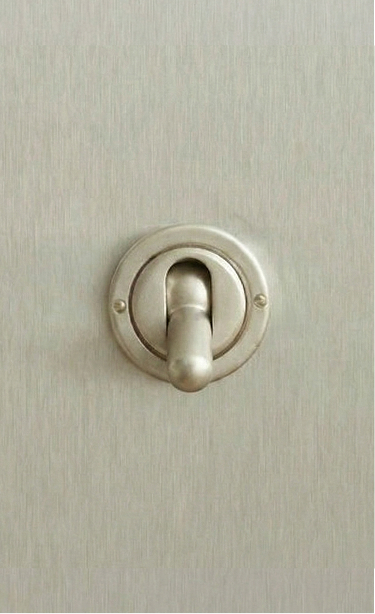
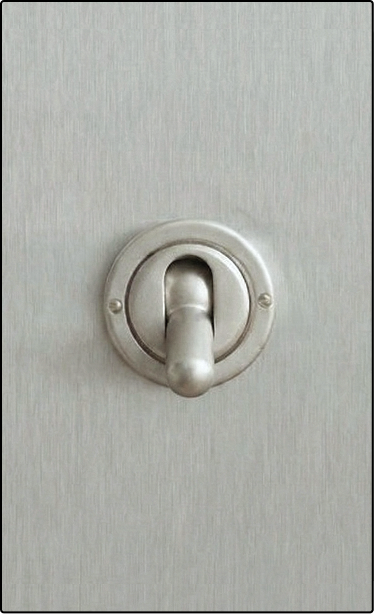
Full-screen layout with hi-res images, vertical slider, repositioned elements

Changed region(s): [[0.0, 0.0, 1.0, 1.0], [0.2353, 0.3404, 0.7647, 0.6498], [0.8529, 0.7427, 0.8824, 0.7736]]

diff --git a/app/page.tsx b/app/page.tsx
@@ -4,14 +4,14 @@ import Image from "next/image";
 import { useState, useRef, useCallback, useEffect } from "react";
 
 const images = [
-  { src: "/images/DOWN_0.png", alt: "Hanger Lamp - Down 0" },
-  { src: "/images/DOWN_-1.png", alt: "Hanger Lamp - Down -1" },
-  { src: "/images/UP_0.png", alt: "Hanger Lamp - UP 0" },
-  { src: "/images/UP_01.png", alt: "Hanger Lamp - UP 1" },
-  { src: "/images/UP_02.png", alt: "Hanger Lamp - UP 2" },
-  { src: "/images/UP_03.png", alt: "Hanger Lamp - UP 3" },
-  { src: "/images/UP_04.png", alt: "Hanger Lamp - UP 4" },
-  { src: "/images/UP_05.png", alt: "Hanger Lamp - UP 5" },
+  { src: "/images/images_hires/_0.png", alt: "Hanger Lamp - 0" },
+  { src: "/images/images_hires/_1.png", alt: "Hanger Lamp - 1" },
+  { src: "/images/images_hires/_2.png", alt: "Hanger Lamp - 2" },
+  { src: "/images/images_hires/_3.png", alt: "Hanger Lamp - 3" },
+  { src: "/images/images_hires/_4.png", alt: "Hanger Lamp - 4" },
+  { src: "/images/images_hires/_5.png", alt: "Hanger Lamp - 5" },
+  { src: "/images/images_hires/_6.png", alt: "Hanger Lamp - 6" },
+  { src: "/images/images_hires/_7.png", alt: "Hanger Lamp - 7" },
 ];
 
 export default function Home() {
@@ -22,15 +22,14 @@ export default function Home() {
   const [showSliderHint, setShowSliderHint] = useState(false);
   const trackRef = useRef<HTMLDivElement>(null);
 
-  // Intro animation: step through each image with 0.45s per image (10% faster)
+  // Intro animation: step through each image with 0.45s per image
   useEffect(() => {
     if (!isAnimating) return;
 
-    const timePerImage = 450; // 0.45 seconds per image (10% faster)
+    const timePerImage = 450;
     const startIndex = images.length - 1;
     let currentIndex = startIndex;
 
-    // Delay before starting animation so users can see the initial state
     const initialTimeout = setTimeout(() => {
       const interval = setInterval(() => {
         currentIndex--;
@@ -40,9 +39,7 @@ export default function Home() {
         if (currentIndex <= 0) {
           clearInterval(interval);
           setIsAnimating(false);
-          // Show the slider hint arrow after animation ends
           setShowSliderHint(true);
-          // Hide the hint after 3 seconds
           setTimeout(() => setShowSliderHint(false), 3000);
         }
       }, timePerImage);
@@ -51,29 +48,30 @@ export default function Home() {
     return () => clearTimeout(initialTimeout);
   }, [isAnimating]);
 
-  const handleDrag = useCallback((clientX: number) => {
+  // Vertical slider drag handler
+  const handleDrag = useCallback((clientY: number) => {
     if (!trackRef.current) return;
     
     const track = trackRef.current;
     const rect = track.getBoundingClientRect();
-    const x = clientX - rect.left;
-    const percentage = Math.max(0, Math.min(1, x / rect.width));
+    const y = clientY - rect.top;
+    const percentage = Math.max(0, Math.min(1, y / rect.height));
     const imageIndex = Math.round(percentage * (images.length - 1));
     setActiveImage(imageIndex);
   }, []);
 
   const handleMouseDown = (e: React.MouseEvent) => {
     if (isOff || isAnimating) return;
-    setShowSliderHint(false); // Hide hint when user interacts
+    setShowSliderHint(false);
     setIsDragging(true);
-    handleDrag(e.clientX);
+    handleDrag(e.clientY);
   };
 
   const handleTouchStart = (e: React.TouchEvent) => {
     if (isOff || isAnimating) return;
-    setShowSliderHint(false); // Hide hint when user interacts
+    setShowSliderHint(false);
     setIsDragging(true);
-    handleDrag(e.touches[0].clientX);
+    handleDrag(e.touches[0].clientY);
   };
 
   const toggleLight = () => {
@@ -83,13 +81,13 @@ export default function Home() {
   useEffect(() => {
     const handleMouseMove = (e: MouseEvent) => {
       if (isDragging) {
-        handleDrag(e.clientX);
+        handleDrag(e.clientY);
       }
     };
 
     const handleTouchMove = (e: TouchEvent) => {
       if (isDragging) {
-        handleDrag(e.touches[0].clientX);
+        handleDrag(e.touches[0].clientY);
       }
     };
 
@@ -113,29 +111,33 @@ export default function Home() {
   }, [isDragging, handleDrag]);
 
   const sliderPosition = (activeImage / (images.length - 1)) * 100;
-  const currentImage = isOff ? "/images/DOWN_OFF.png" : images[activeImage].src;
+  const currentImage = isOff ? "/images/images_hires/_dark_on.png" : images[activeImage].src;
   const currentAlt = isOff ? "Hanger Lamp - Off" : images[activeImage].alt;
   const switchImage = isOff ? "/images/switch-down.png" : "/images/switch-up.png";
 
   return (
-    <div 
-      className={`min-h-screen font-sans select-none transition-colors duration-500 ${
-        isOff ? "bg-[#7F7D75] text-[#1a1a1a]" : "bg-[#d9d5cd] text-[#1a1a1a]"
-      }`}
-    >
-      {/* Navigation - Hidden on mobile, visible on desktop */}
-      <nav 
-        className={`fixed top-0 left-0 right-0 z-50 hidden md:flex items-center gap-16 px-12 py-6 transition-colors duration-500 ${
-          isOff ? "bg-[#7F7D75]" : "bg-[#d9d5cd]"
-        }`}
-      >
+    <div className="min-h-screen font-sans select-none relative">
+      {/* Full-screen background image */}
+      <div className="fixed inset-0 z-0">
+        <Image
+          src={currentImage}
+          alt={currentAlt}
+          fill
+          className="object-cover transition-opacity duration-300"
+          priority
+          sizes="100vw"
+        />
+      </div>
+
+      {/* Navigation */}
+      <nav className="fixed top-0 left-0 right-0 z-50 flex items-center gap-16 px-12 py-8">
         <a 
           href="#" 
           className="text-xl font-medium tracking-wide border-b-2 border-black pb-0.5"
         >
           HL
         </a>
-        <div className="flex items-center gap-12 text-base tracking-wide">
+        <div className="flex items-center gap-12 text-lg tracking-wide">
           <a href="#visuals" className="hover:opacity-60 transition-opacity">
             Visuals
           </a>
@@ -148,121 +150,89 @@ export default function Home() {
         </div>
       </nav>
 
-      {/* Main Content - Stack on mobile, side-by-side on desktop */}
-      <main className="flex flex-col md:flex-row min-h-screen">
-        
-        {/* Image Panel - First on mobile (top), second on desktop (right) */}
-        <div 
-          className={`w-full h-[50vh] md:w-1/2 md:h-screen md:sticky md:top-0 md:order-2 overflow-hidden transition-colors duration-500 ${
-            isOff ? "bg-[#7F7D75]" : "bg-[#d9d5cd]"
-          }`}
+      {/* Content overlay - Left side */}
+      <div className="fixed left-12 top-1/2 -translate-y-1/2 z-10 max-w-xs">
+        <h1 className="text-3xl font-normal tracking-tight mb-2">
+          Hanger Lamp
+        </h1>
+        <p className="text-lg mb-4">$700</p>
+        <p className="text-sm leading-relaxed mb-8 text-neutral-700">
+          Crafted in America from solid teak and machined aluminum, this wall mounted sconce provides a warm glow while doubling as a functional hanger to dry your merino wool sweater. It's a piece that values your daily routine as much as your decor.
+        </p>
+
+        {/* CTA Button */}
+        <button className="bg-[#c41e1e] text-white px-6 py-3 text-sm tracking-wide hover:bg-[#a31818] transition-colors mb-4">
+          Batch 1: Sold out
+        </button>
+
+        {/* Newsletter signup link */}
+        <a 
+          href="#signup" 
+          className="block text-sm underline hover:opacity-60 transition-opacity cursor-pointer"
         >
-          {/* Main product image */}
-          <div className="relative w-full h-full">
-            <Image
-              src={currentImage}
-              alt={currentAlt}
-              fill
-              className="object-contain transition-opacity duration-300"
-              priority
-            />
-          </div>
-        </div>
+          Sign up for batch 2
+        </a>
+      </div>
 
-        {/* Content Panel - Second on mobile (below image), first on desktop (left) */}
-        <div className="w-full md:w-1/2 flex flex-col justify-center px-6 py-10 md:px-16 md:py-24 md:pt-32 md:order-1">
-          <div className="max-w-md mx-auto md:mx-0">
-            <h1 className="text-3xl md:text-4xl font-normal tracking-tight mb-2 md:mb-3">
-              Hanger Lamp
-            </h1>
-            <p className="text-lg md:text-xl mb-4 md:mb-6">$700</p>
-            <p 
-              className={`text-sm md:text-base leading-relaxed mb-8 md:mb-12 max-w-xs transition-colors duration-500 ${
-                isOff ? "text-neutral-800" : "text-neutral-600"
-              }`}
+      {/* Vertical Slider - Right side */}
+      <div className="fixed right-24 top-1/2 -translate-y-1/2 z-10">
+        {/* Slider hint */}
+        {showSliderHint && (
+          <div className="absolute -left-20 top-1/2 -translate-y-1/2 flex items-center gap-2 animate-pulse">
+            <span className="text-xs text-neutral-600 whitespace-nowrap">Drag</span>
+            <svg 
+              className="w-3 h-3 text-neutral-600" 
+              fill="none" 
+              stroke="currentColor" 
+              viewBox="0 0 24 24"
             >
-              Crafted in America from solid teak and machined aluminum, this wall mounted sconce provides a warm glow while doubling as a functional hanger to dry your merino wool sweater. It's a piece that values your daily routine as much as your decor.
-            </p>
-
-            {/* Draggable Slider */}
-            <div className="relative mb-10 md:mb-16">
-              {/* Slider hint arrow */}
-              {showSliderHint && (
-                <div className="absolute -top-8 left-0 flex items-center gap-2 animate-pulse">
-                  <span className="text-sm text-neutral-600">Drag to explore</span>
-                  <svg 
-                    className="w-4 h-4 text-neutral-600 animate-bounce" 
-                    fill="none" 
-                    stroke="currentColor" 
-                    viewBox="0 0 24 24"
-                  >
-                    <path strokeLinecap="round" strokeLinejoin="round" strokeWidth={2} d="M19 14l-7 7m0 0l-7-7m7 7V3" />
-                  </svg>
-                </div>
-              )}
-              
-              <div 
-                ref={trackRef}
-                className={`relative h-12 transition-opacity duration-500 ${
-                  isOff ? "opacity-30 cursor-not-allowed" : "cursor-grab active:cursor-grabbing"
-                }`}
-                onMouseDown={handleMouseDown}
-                onTouchStart={handleTouchStart}
-              >
-                {/* Track line */}
-                <div 
-                  className={`absolute top-1/2 left-0 right-0 h-px -translate-y-1/2 transition-colors duration-500 ${
-                    isOff ? "bg-neutral-500" : "bg-neutral-400"
-                  }`} 
-                />
-                
-                {/* Draggable handle */}
-                <div 
-                  className={`absolute top-1/2 -translate-y-1/2 -translate-x-1/2 w-3 h-8 rounded-sm transition-all duration-300 ${
-                    isOff ? "bg-neutral-700" : "bg-black hover:scale-110"
-                  }`}
-                  style={{ left: `${sliderPosition}%` }}
-                />
-              </div>
-            </div>
-
-            {/* CTA Button */}
-            <button className="w-full md:w-auto bg-[#c41e1e] text-white px-8 py-4 text-base tracking-wide hover:bg-[#a31818] transition-colors mb-4">
-              Batch 1: Sold out
-            </button>
-
-            {/* Newsletter signup link */}
-            <a 
-              href="#signup" 
-              className="block text-base underline hover:opacity-60 transition-opacity cursor-pointer"
-            >
-              Sign up for batch 2
-            </a>
+              <path strokeLinecap="round" strokeLinejoin="round" strokeWidth={2} d="M9 5l7 7-7 7" />
+            </svg>
           </div>
+        )}
+        
+        <div 
+          ref={trackRef}
+          className={`relative w-12 h-64 transition-opacity duration-500 ${
+            isOff ? "opacity-30 cursor-not-allowed" : "cursor-grab active:cursor-grabbing"
+          }`}
+          onMouseDown={handleMouseDown}
+          onTouchStart={handleTouchStart}
+        >
+          {/* Track line - vertical */}
+          <div 
+            className={`absolute left-1/2 top-0 bottom-0 w-px -translate-x-1/2 transition-colors duration-500 ${
+              isOff ? "bg-neutral-500" : "bg-neutral-400"
+            }`} 
+          />
+          
+          {/* Draggable handle */}
+          <div 
+            className={`absolute left-1/2 -translate-x-1/2 -translate-y-1/2 w-4 h-4 rounded-sm transition-all duration-300 ${
+              isOff ? "bg-neutral-700" : "bg-[#c9a227] hover:scale-110"
+            }`}
+            style={{ top: `${sliderPosition}%` }}
+          />
         </div>
-      </main>
+      </div>
 
-      {/* Footer Bar */}
-      <div 
-        className={`h-12 md:h-16 transition-colors duration-500 ${
-          isOff ? "bg-[#5a5852]" : "bg-[#a8a49c]"
-        }`} 
-      />
-
-      {/* Fixed Switch - Always visible at bottom center */}
+      {/* Switch - Bottom right with border */}
       <button 
         onClick={toggleLight}
-        className="fixed bottom-6 left-1/2 -translate-x-1/2 z-50 w-[90px] h-[112px] md:w-[112px] md:h-[134px] overflow-hidden transition-all duration-300 hover:scale-105"
+        className="fixed bottom-12 right-24 z-50 w-16 h-20 border border-neutral-400 overflow-hidden transition-all duration-300 hover:scale-105 bg-white/50"
         aria-label={isOff ? "Turn light on" : "Turn light off"}
       >
         <Image
           src={switchImage}
           alt="Light switch"
-          width={112}
-          height={134}
+          width={64}
+          height={80}
           className="w-full h-full object-contain transition-all duration-500"
         />
       </button>
+
+      {/* Footer Bar */}
+      <div className="fixed bottom-0 left-0 right-0 h-12 bg-[#a8a49c] z-0" />
     </div>
   );
 }
